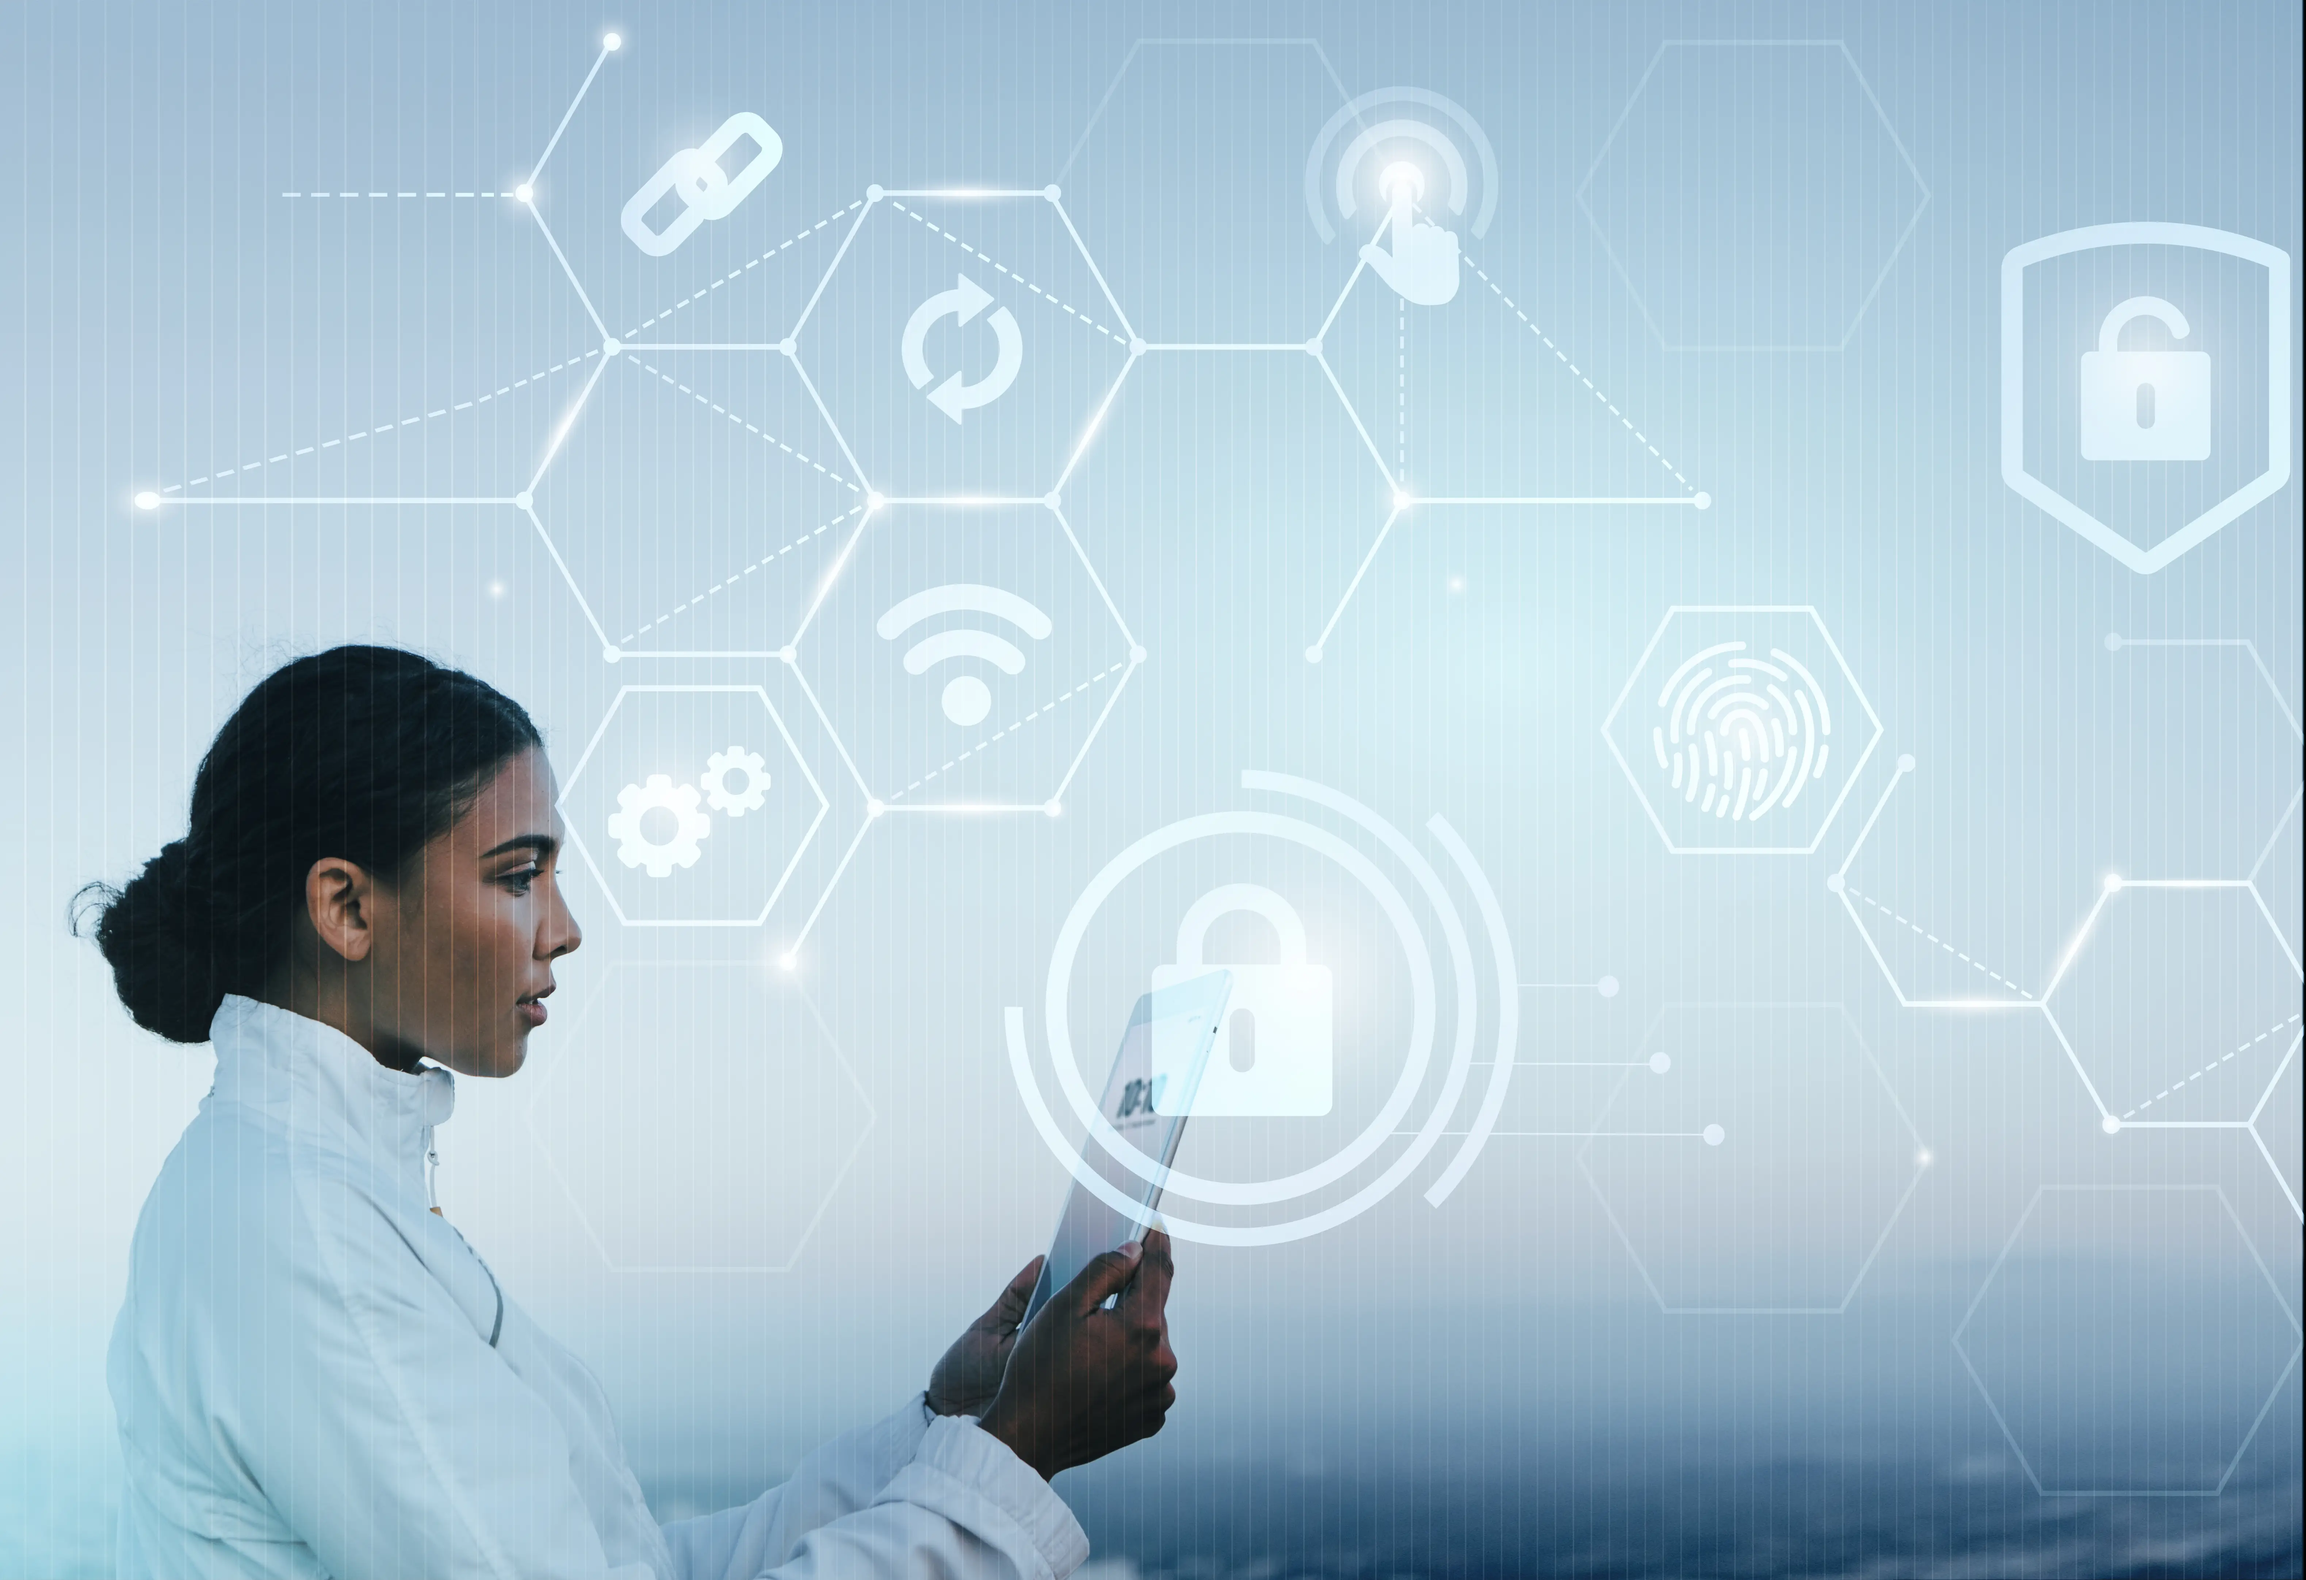
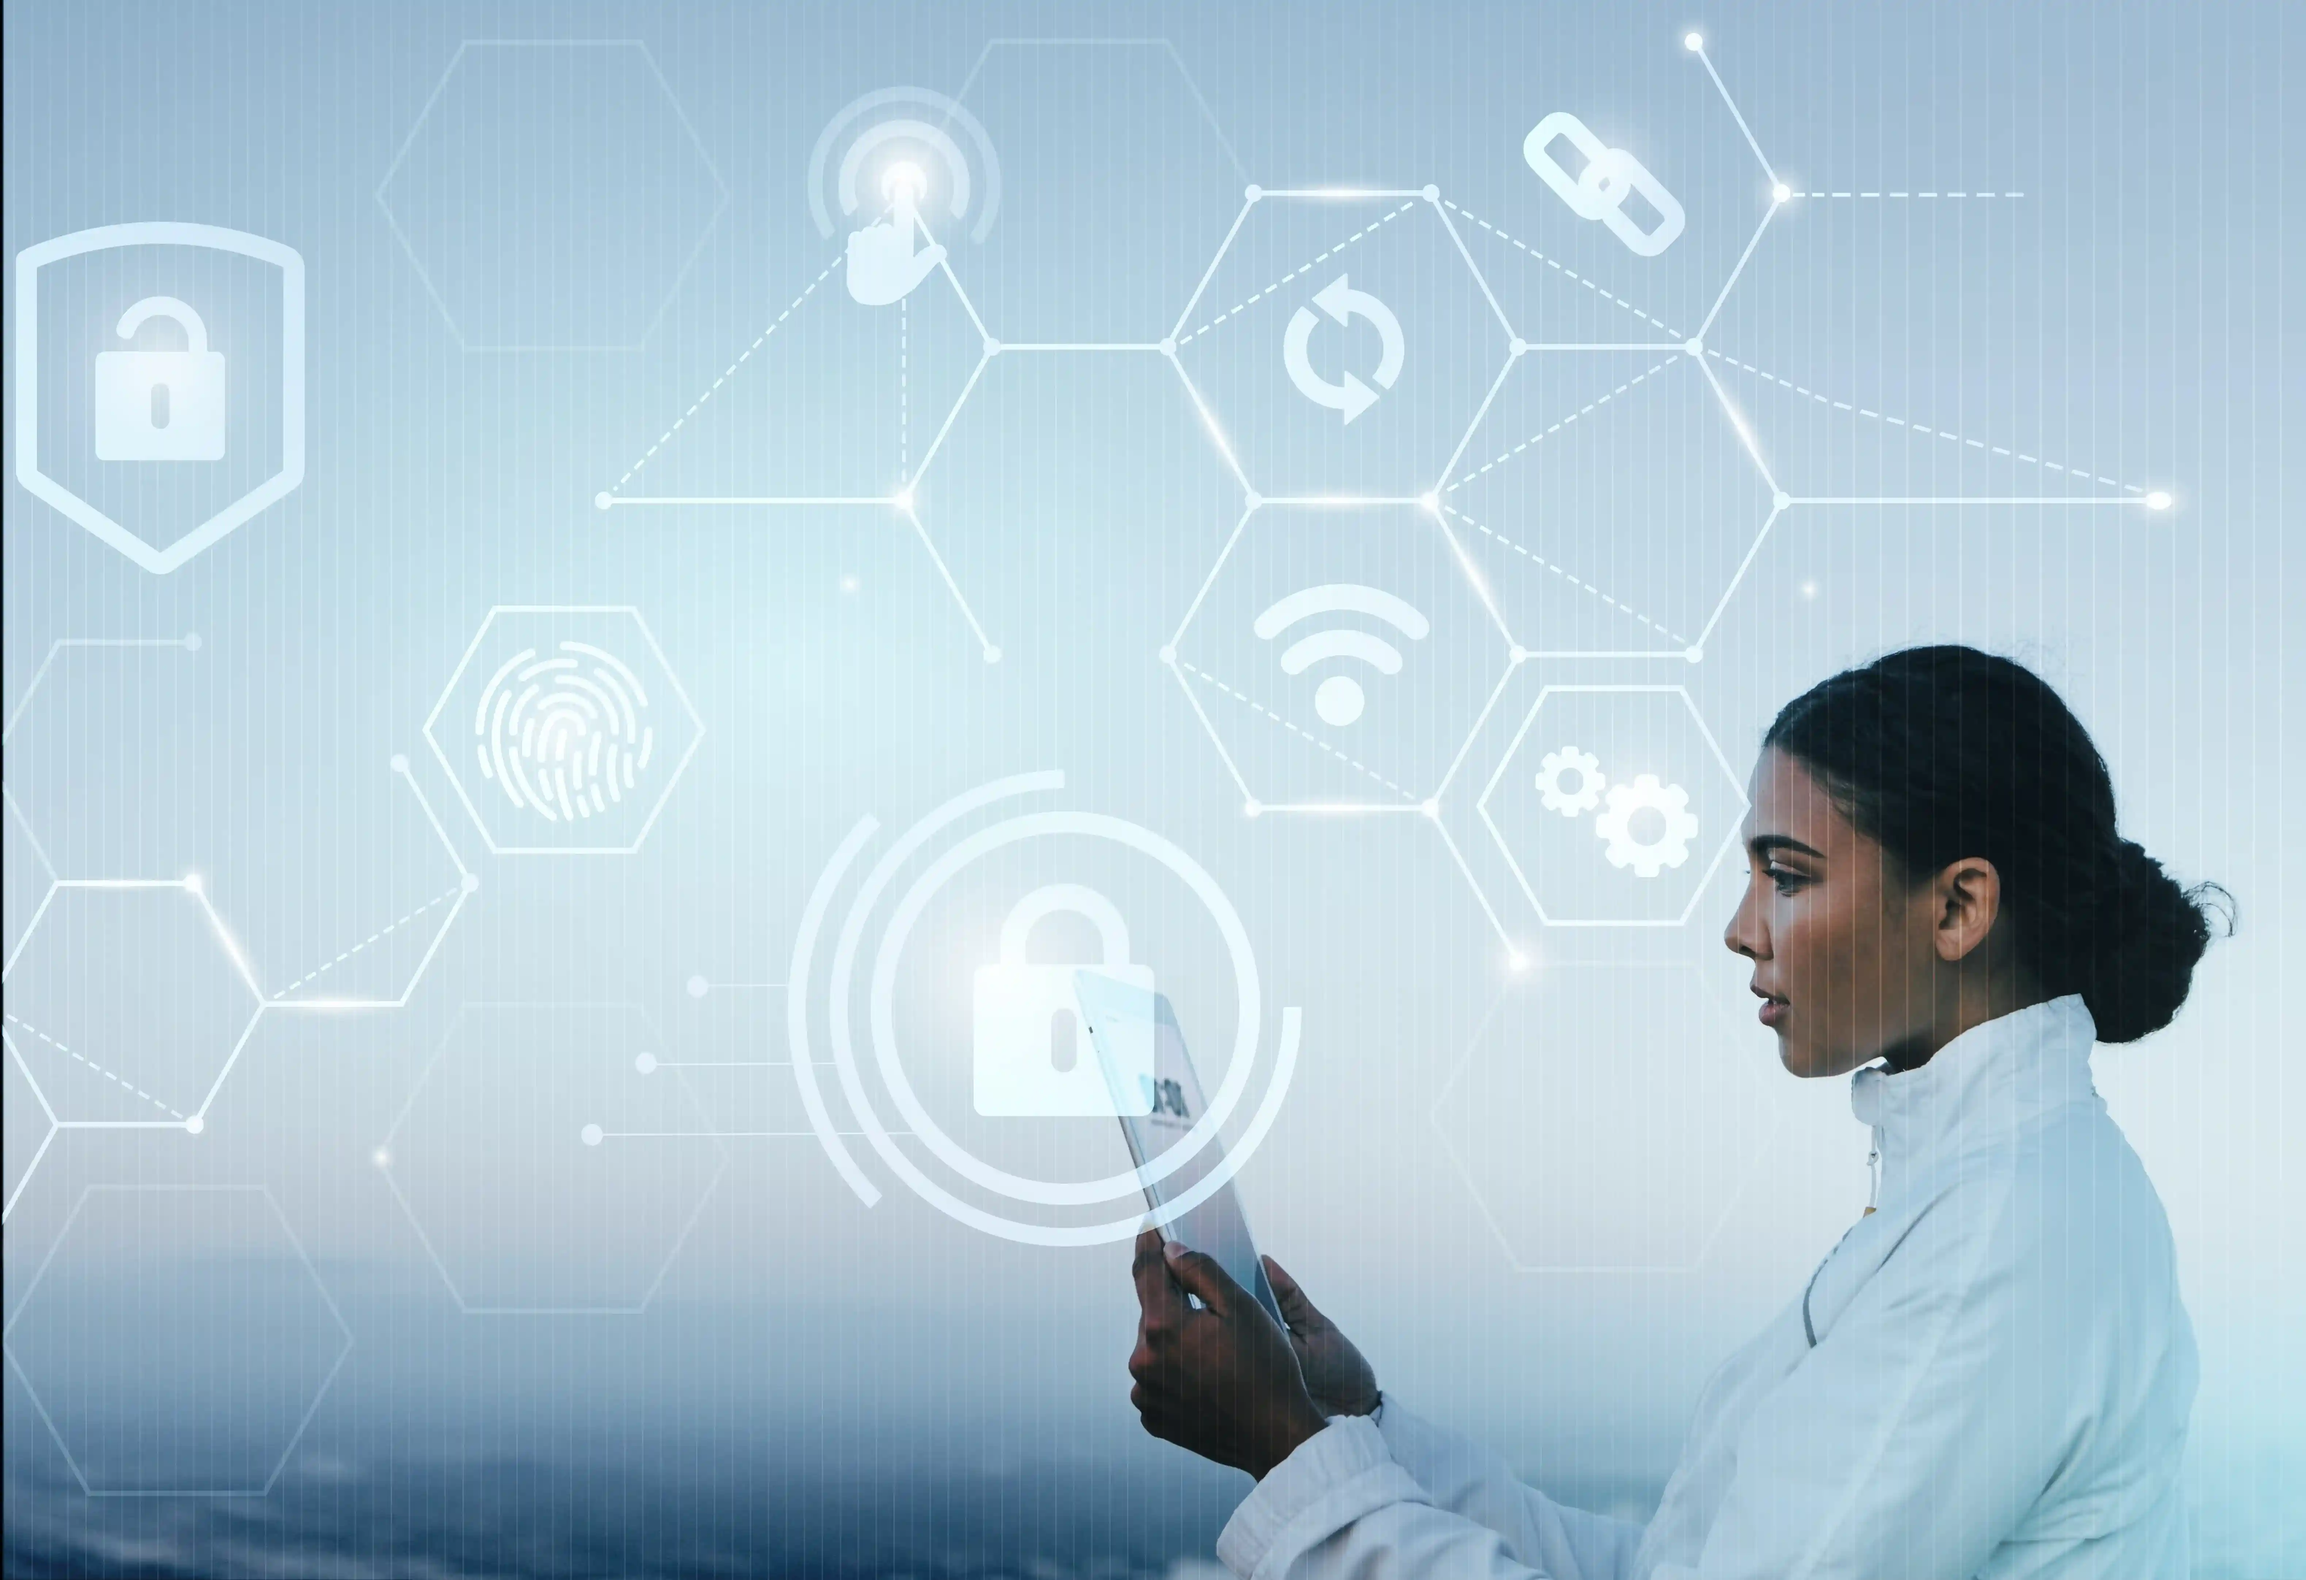
modification photo et readme

diff --git a/index.html b/index.html
@@ -108,7 +108,7 @@
 
           <div class="col-lg-6">
             <div class="hero-image" data-aos="zoom-out" data-aos-delay="300">
-              <img src="assets/img/illustration-1.webp" alt="Hero Image" class="img-fluid">
+              <img src="assets/img/illustration-1.png" alt="Hero Image" class="img-fluid">
               <div class="metiers-slider-container">
   <div class="metiers-slider">
     <!-- 1 -->
@@ -244,26 +244,38 @@
   </div>
 
   <div class="info-wrapper">
-    <div class="row gy-4">
-      <div class="col-lg-7">
-        <div class="contact-info d-flex align-items-center gap-2">
-          <i class="bi bi-telephone-fill"></i>
-          <div>
-            <p class="contact-label">Appelez-nous</p>
-            <p class="contact-number">+261 20 22 000 00</p>
-          </div>
+  <div class="row gy-4">
+    <div class="col-md-6">
+      <a href="tel:+261202200000" class="contact-info d-flex align-items-center gap-3 text-decoration-none">
+        <i class="bi bi-telephone-fill"></i>
+        <div>
+          <p class="contact-label">Appelez-nous</p>
+          <p class="contact-number">+261 20 22 000 00</p>
         </div>
-      </div>
+      </a>
+    </div>
+    <div class="col-md-6">
+      <a href="#contact" class="contact-info d-flex align-items-center gap-3 text-decoration-none">
+        <i class="bi bi-envelope-fill"></i>
+        <div>
+          <p class="contact-label">Contactez-nous</p>
+          <p class="contact-number">Avec nos Experts</p>
+        </div>
+      </a>
     </div>
   </div>
+</div>
+
+
+  
 </div>
 
 
           <div class="col-xl-6" data-aos="fade-up" data-aos-delay="300">
             <div class="image-wrapper">
               <div class="images position-relative" data-aos="zoom-out" data-aos-delay="400">
-                <img src="assets/img/photo/standard-quality-control-concept-m (1)-new.webp" alt="Business Meeting" class="img-fluid main-image rounded-4">
-                <img src="assets/img/batiment-2.jpg" alt="Team Discussion" class="img-fluid small-image rounded-4">
+                <img src="assets/img/burreau.png" alt="Business Meeting" class="img-fluid main-image rounded-4">
+                <img src="assets/img/carré.png" alt="Team Discussion" class="img-fluid small-image rounded-4">
               </div>
               <div class="experience-badge floating">
                 <h3>24+ <span>Années</span></h3>
@@ -327,7 +339,7 @@
             </ul>
           </div>
           <div class="col-lg-6 order-1 order-lg-2 text-center">
-            <img src="assets/img/features-illustration-1.webp" alt="Audit et Conseil" class="img-fluid">
+            <img src="assets/img/audit.png" alt="Audit et Conseil"  class="img-fluid rounded-3">
           </div>
         </div>
       </div>
@@ -338,16 +350,18 @@
           <div class="col-lg-6 order-2 order-lg-1 mt-3 mt-lg-0 d-flex flex-column justify-content-center">
             <h3>Des solutions opérationnelles, livrées clés en main</h3>
             <p class="fst-italic">
-              Nos équipes assurent l’installation, le paramétrage et la mise en service de vos infrastructures IT, en conformité avec les normes les plus exigeantes.
+              Que ce soit pour des besoins informatiques ou pour l’équipement de vos locaux professionnels, Teknet Group vous propose une prise en charge complète : du matériel au logiciel.
             </p>
             <ul>
-              <li><i class="bi bi-check2-all"></i> Installation de serveurs, réseaux et postes de travail</li>
-              <li><i class="bi bi-check2-all"></i> Intégration de logiciels, applications et systèmes</li>
-              <li><i class="bi bi-check2-all"></i> Déploiement sécurisé avec méthode et suivi qualité</li>
+              <li><i class="bi bi-check2-all"></i> Installation de serveurs, de réseaux informatiques et de postes de travail</li>
+              <li><i class="bi bi-check2-all"></i> Mise en place de solutions de vidéosurveillance, contrôle d’accès et sécurité physique</li>
+              <li><i class="bi bi-check2-all"></i> Intégration de logiciels, d'applications métier et de systèmes d'information</li>
+              <li><i class="bi bi-check2-all"></i> Câblage structuré, armoires réseau et interconnexion de sites</li>
+              <li><i class="bi bi-check2-all"></i> Déploiement sécurisé avec une méthode éprouvée et un suivi qualité rigoureux</li>
             </ul>
           </div>
           <div class="col-lg-6 order-1 order-lg-2 text-center">
-            <img src="assets/img/features-illustration-2.webp" alt="Déploiement et Intégration" class="img-fluid">
+            <img src="assets/img/depl.png" alt="Déploiement et Intégration"  class="img-fluid rounded-3">
           </div>
         </div>
       </div>
@@ -357,17 +371,18 @@
         <div class="row">
           <div class="col-lg-6 order-2 order-lg-1 mt-3 mt-lg-0 d-flex flex-column justify-content-center">
             <h3>Suivi durable, support technique et amélioration continue</h3>
+            <p class="fst-italic">
+              Teknet Group reste à vos côtés après le déploiement pour garantir la stabilité, la performance et l’évolution de vos systèmes d’information.
+            </p>
             <ul>
               <li><i class="bi bi-check2-all"></i> Contrats de maintenance adaptés à vos besoins</li>
               <li><i class="bi bi-check2-all"></i> Services sur site, en atelier ou en mode externalisé (BPO)</li>
               <li><i class="bi bi-check2-all"></i> Infogérance et administration système</li>
             </ul>
-            <p class="fst-italic">
-              Teknet Group reste à vos côtés après le déploiement pour garantir la stabilité, la performance et l’évolution de vos systèmes d’information.
-            </p>
+            
           </div>
           <div class="col-lg-6 order-1 order-lg-2 text-center">
-            <img src="assets/img/features-illustration-3.webp" alt="Maintenance et Support" class="img-fluid">
+            <img src="assets/img/maint.png" alt="Maintenance et Support"  class="img-fluid rounded-3">
           </div>
         </div>
       </div>
@@ -891,7 +906,7 @@
       <!-- Infos société -->
       <div class="col-lg-4 col-md-6 footer-about">
         <a href="index.html" class="logo d-flex align-items-center">
-          <span class="sitename">TeknetGroup</span>
+          <img src="assets/img/TEKNETGROUP LOGO.png" alt=""> 
         </a>
         <div class="footer-contact pt-3">
           <p>BP: 3914 - 3<sup>e</sup> Étage</p>

diff --git a/assets/css/main.css b/assets/css/main.css
@@ -1,15 +1,4 @@
-/**
-* Template Name: iLanding
-* Template URL: https://bootstrapmade.com/ilanding-bootstrap-landing-page-template/
-* Updated: Nov 12 2024 with Bootstrap v5.3.3
-* Author: BootstrapMade.com
-* License: https://bootstrapmade.com/license/
-*/
 
-/*--------------------------------------------------------------
-# Font & Color Variables
-# Help: https://bootstrapmade.com/color-system/
---------------------------------------------------------------*/
 /* Fonts */
 :root {
   --default-font: "Roboto",  system-ui, -apple-system, "Segoe UI", Roboto, "Helvetica Neue", Arial, "Noto Sans", "Liberation Sans", sans-serif, "Apple Color Emoji", "Segoe UI Emoji", "Segoe UI Symbol", "Noto Color Emoji";
@@ -155,7 +144,7 @@ h6 {
   background: var(--surface-color);
   border-radius: 50px;
   padding: 5px 25px;
-  box-shadow: 0px 2px 15px rgba(0, 0, 0, 0.1);
+  box-shadow: none
 }
 
 .scrolled .header .header-container {
@@ -1031,7 +1020,19 @@ section,
   padding: 1rem 1.5rem;
   background-color: var(--surface-color);
   border-radius: 0.5rem;
-  box-shadow: 0 0 15px rgba(0, 0, 0, 0.06);
+  box-shadow: 0 0 15px rgba(0, 0, 0, 0.03);
+  transition: all 0.3s ease-in-out;
+}
+
+.about .contact-info:hover {
+  background-color: var(--accent-color);
+  color: var(--contrast-color);
+}
+
+.about .contact-info:hover i,
+.about .contact-info:hover .contact-label,
+.about .contact-info:hover .contact-number {
+  color: var(--contrast-color);
 }
 
 .about .contact-info i {
@@ -1049,6 +1050,7 @@ section,
   font-weight: 600;
   margin: 0;
 }
+
 
 .about .image-wrapper {
   position: relative;
@@ -1374,7 +1376,7 @@ section,
 .features-2 .phone-mockup img {
   max-width: 300px;
   height: auto;
-  filter: drop-shadow(0 5px 15px rgba(0, 0, 0, 0.1));
+  filter: drop-shadow(0 5px 10px rgba(0, 0, 0, 0.05));
 }
 
 @media (max-width: 991.98px) {
@@ -2344,8 +2346,8 @@ section,
   display: flex;
   align-items: center;
   justify-content: center;
-  width: 48px;
-  height: 48px;
+  width: 50px;
+  height: 50px;
 }
 
 .feature-icon .icon-img {
@@ -2355,16 +2357,16 @@ section,
   display: block;
 }
 .icon-img {
-  width: 48px;
-  height: 48px;
+  width: 50px;
+  height: 50px;
   object-fit: contain;
   display: block;
 }
 
 .metiers-slider-container {
   position: absolute;
-  bottom: 8%; /* place le bloc vers le bas du téléphone */
-  left: 50%;
+  bottom: 5%; /* place le bloc vers le bas du téléphone */
+  left: 52%;
   transform: translateX(-50%);
   width: 180px;
   height: 90px;

diff --git a/produit-partenaire.html b/produit-partenaire.html
@@ -210,7 +210,7 @@
       <!-- Infos société -->
       <div class="col-lg-4 col-md-6 footer-about">
         <a href="index.html" class="logo d-flex align-items-center">
-          <span class="sitename">TeknetGroup</span>
+          <img src="assets/img/TEKNETGROUP LOGO.png" alt=""> 
         </a>
         <div class="footer-contact pt-3">
           <p>BP: 3914 - 3<sup>e</sup> Étage</p>
